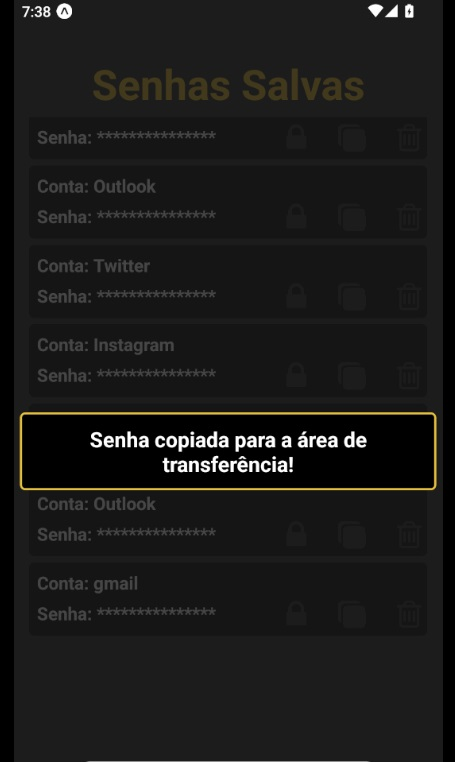
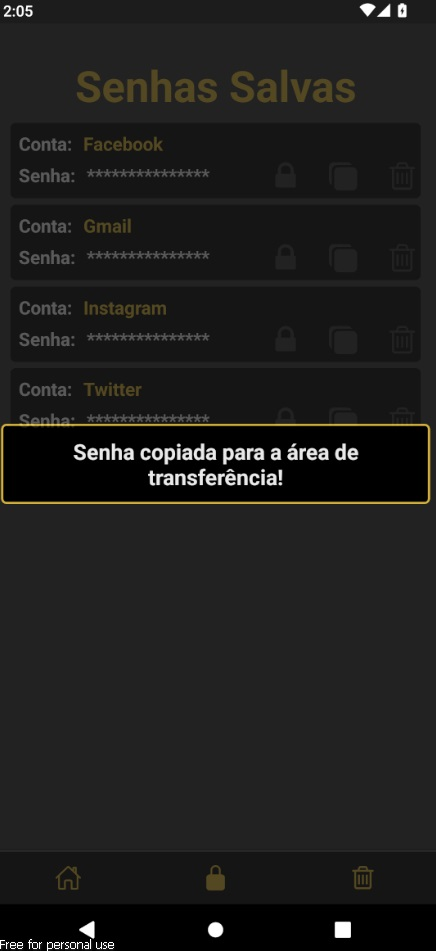
layout: animando as screens, editando tabBar

diff --git a/src/routes.tsx b/src/routes.tsx
@@ -4,15 +4,16 @@ import { Passwords } from './screens/Passwords/Passwords';
 import { Lixeira } from "./screens/Lixeira/Lixeira";
 import * as Animatable from 'react-native-animatable';
 import { FontAwesome, Ionicons } from '@expo/vector-icons'
-import { StatusBar } from "expo-status-bar";
 import { View, Text, TouchableOpacity, StyleSheet } from "react-native";
 import { useState } from "react";
 import logo from '../assets/23.png'
+
 
 const { Navigator, Screen } = createBottomTabNavigator();
 
 export function Routes() {
     const [preHome, setPreHome] = useState(true);
+
 
     function PreHome() {
         return (
@@ -57,17 +58,15 @@ export function Routes() {
     function Aplication() {
         return (
             <View
-                style={{ flex: 1, backgroundColor: "#333333" }}
+                style={{ flex: 1, }}
             >
                 < Navigator
                     screenOptions={{
                         tabBarStyle: {
                             backgroundColor: "#000",
-                            width: '90%',
-                            borderRadius: 7,
+                            width: '100%',
                             alignSelf: "center",
-                            bottom: 15,
-                            borderTopWidth: 0
+
                         }
                     }}>
 
@@ -84,6 +83,7 @@ export function Routes() {
                                 return <Ionicons size={25} color={"#e5bf3c"} name="home-outline" />
                             }
                         }}
+
                     />
                     <Screen
                         name="senhas"
@@ -123,7 +123,6 @@ export function Routes() {
             style={{ flex: 1 }}
         >
             {preHome ? <PreHome /> : <Aplication />}
-
         </View>
     )
 
@@ -141,11 +140,12 @@ const styles = StyleSheet.create({
         textAlign: 'center',
         fontWeight: 'bold',
         fontSize: 30,
+        paddingTop: 20,
     },
     desc: {
         color: "#fff",
         fontSize: 15,
-        padding: 10,
+        padding: 20,
         textAlign: 'center',
         fontStyle: 'italic'
     },
@@ -154,14 +154,14 @@ const styles = StyleSheet.create({
         justifyContent: "space-around",
         backgroundColor: "#000",
         width: "100%",
-        borderTopLeftRadius: 50,
-        borderTopRightRadius: 50,
+        borderTopLeftRadius: 30,
+        borderTopRightRadius: 30,
     },
     button: {
         backgroundColor: "#333",
         width: '70%',
         alignSelf: "center",
-        borderRadius: 20
+        borderRadius: 10
     },
     buttonText: {
         color: "#e5bf3c",

diff --git a/src/screens/Passwords/Passwords.tsx b/src/screens/Passwords/Passwords.tsx
@@ -1,4 +1,4 @@
-import React, { useState } from 'react';
+import React, { useEffect, useState } from 'react';
 import { View, Text, FlatList, TouchableOpacity, Alert, Modal } from 'react-native';
 import { useSenhasContext } from '../../hooks/useSenhasContext';
 import { StatusBar } from 'expo-status-bar';
@@ -8,6 +8,8 @@ import { ModalSenhaCopiada } from '../../components/Modal/ModalSenhaCopiada';
 import { useLixeiraContext } from '../../hooks/useLixeiraContext';
 import { styles } from './PasswordsStyles';
 import { MotiView } from 'moti';
+import { useFocusContext } from '../../hooks/useFocusContext';
+import { useFocusEffect } from '@react-navigation/native';
 
 interface Senha {
     conta: string;
@@ -18,12 +20,22 @@ export function Passwords() {
 
     const { senhas, setSenhas } = useSenhasContext();
     const { lixeira, setLixeira } = useLixeiraContext();
+    const { isPasswordsFocused, setFocus, } = useFocusContext();
     const [showPass, setShowPass] = useState<number | null>(null);
     const [senhaCopiadaVisible, setSenhaCopiadaVisible] = useState(false);
 
     const senhasOrdenadas = [...senhas].sort((a, b) => a.conta.localeCompare(b.conta));
 
     var column = 1;
+
+    useFocusEffect(
+        React.useCallback(() => {
+            setFocus('senhas');
+        }, [setFocus])
+    );
+
+    console.log("Senhas: " + isPasswordsFocused);
+    console.log("*************");
 
     const handleRemoverSenha = (senhaParaRemover: Senha) => {
         const novaListaSenhas = senhas.filter(senha => senha !== senhaParaRemover);
@@ -112,7 +124,11 @@ export function Passwords() {
 
 
     return (
-        <View style={styles.container}>
+        <MotiView style={styles.container}
+            from={{ opacity: 0 }}
+            animate={{ opacity: isPasswordsFocused ? 1 : 0, translateY: 0 }}
+            transition={{ duration: 1000 }}
+        >
             <StatusBar
                 backgroundColor='#333'
                 style='light'
@@ -139,6 +155,6 @@ export function Passwords() {
                     handleClose={() => setSenhaCopiadaVisible(false)}
                 />
             </Modal>
-        </View>
+        </MotiView>
     );
 } 

diff --git a/src/screens/Lixeira/Lixeira.tsx b/src/screens/Lixeira/Lixeira.tsx
@@ -1,11 +1,14 @@
-import React, { useState } from 'react';
+import React, { useEffect, useState } from 'react';
 import { View, Text, FlatList, TouchableOpacity, Alert } from 'react-native';
 import { useSenhasContext } from '../../hooks/useSenhasContext';
 import { useLixeiraContext } from '../../hooks/useLixeiraContext';
 import { StatusBar } from 'expo-status-bar';
 import { FontAwesome, MaterialCommunityIcons } from '@expo/vector-icons'
+import { useFocusContext } from '../../hooks/useFocusContext';
 
 import { styles } from './LixeiraStyles';
+import { useFocusEffect } from '@react-navigation/native';
+import { MotiView } from 'moti';
 
 interface Senha {
     conta: string;
@@ -16,10 +19,22 @@ export function Lixeira() {
 
     const { senhas, setSenhas } = useSenhasContext();
     const { lixeira, setLixeira } = useLixeiraContext();
+
+    const { isTrashFocused, setFocus, } = useFocusContext();
+
     const [showPass, setShowPass] = useState<number | null>(null);
     var column = 1;
 
     const senhasOrdenadas = [...lixeira].sort((a, b) => a.conta.localeCompare(b.conta));
+
+    useFocusEffect(
+        React.useCallback(() => {
+            setFocus('lixeira');
+        }, [setFocus])
+    );
+
+    console.log("Lixeira: " + isTrashFocused);
+    console.log("*************");
 
     const handleRemoverSenha = (senhaParaRemover: Senha) => {
         const novaListaLixeira = lixeira.filter(senha => senha !== senhaParaRemover);
@@ -125,7 +140,11 @@ export function Lixeira() {
     );
 
     return (
-        <View style={styles.container}>
+        <MotiView style={styles.container}
+            from={{ opacity: isTrashFocused ? 0 : 1, translateY: 0 }}
+            animate={{ opacity: isTrashFocused ? 1 : 0, translateY: 0 }}
+            transition={{ duration: 1000 }}
+        >
             <StatusBar
                 style='light'
                 translucent={true}
@@ -143,6 +162,6 @@ export function Lixeira() {
             ) : (
                 <Text style={styles.textoVazio}>Lixeira está vazia</Text>
             )}
-        </View>
+        </MotiView>
     );
 } 

diff --git a/src/screens/Home/Home.tsx b/src/screens/Home/Home.tsx
@@ -10,9 +10,12 @@ import Slider from '@react-native-community/slider';
 import { Feather } from '@expo/vector-icons';
 import * as Animatable from 'react-native-animatable';
 import { MotiView } from 'moti';
+import { useFocusContext } from '../../hooks/useFocusContext';
+import { useFocusEffect } from '@react-navigation/native';
 
 export function Home() {
     const { pass, setPass } = usePassContext();
+    const { isHomeFocused, setFocus, } = useFocusContext();
     const [size, setSize] = useState(5);
     const [showPass, setShowPass] = useState(false);
     const [modalAddVisible, setModalAddVisible] = useState(false);
@@ -36,6 +39,14 @@ export function Home() {
     const numberSet = '01234567890123456789';
     const especialSet = '!@#$%&?!@#$%&?';
 
+    useFocusEffect(
+        React.useCallback(() => {
+            setFocus('home');
+        }, [setFocus])
+    );
+
+    console.log("Home:" + isHomeFocused);
+    console.log("*************");
 
     useEffect(() => {
         let timeoutChar: any;
@@ -99,12 +110,15 @@ export function Home() {
         pass.password !== '' ? setModalAddVisible(true) : setGerarSenha(true);
     }
     return (
+
+
         <MotiView
             style={styles.appContainer}
-            from={{ opacity: 0, translateX: -300 }}
-            animate={{ opacity: 1, translateX: 0 }}
-            transition={{ type: 'timing', duration: 700 }}
+            from={{ opacity: 0, }}
+            animate={{ opacity: isHomeFocused ? 1 : 0, translateY: 0 }}
+            transition={{ duration: 1000 }}
         >
+
             <View style={styles.logoContainer}>
                 <Logo />
             </View>
@@ -236,5 +250,6 @@ export function Home() {
                 </Modal>
             </View>
         </MotiView >
+
     );
 }

diff --git a/src/hooks/useFocusContext.tsx b/src/hooks/useFocusContext.tsx
@@ -1,0 +1,43 @@
+import React, { createContext, useContext, useState, ReactNode } from 'react';
+
+interface FocusContextProps {
+    isHomeFocused: boolean;
+    isPasswordsFocused: boolean;
+    isTrashFocused: boolean;
+    setFocus: (focus: 'home' | 'senhas' | 'lixeira') => void;
+}
+
+
+const FocusContext = createContext<FocusContextProps | undefined>(undefined);
+
+
+interface FocusProviderProps {
+    children: ReactNode;
+}
+
+
+export const useFocusContext = () => {
+    const context = useContext(FocusContext);
+    if (!context) {
+        throw new Error('useFocusContext deve ser usado dentro de FocusProvider');
+    }
+    return context;
+};
+
+export const FocusProvider: React.FC<FocusProviderProps> = ({ children }) => {
+    const [isHomeFocused, setHomeFocus] = useState(true);
+    const [isPasswordsFocused, setPasswordsFocus] = useState(false);
+    const [isTrashFocused, setTrashFocus] = useState(false);
+
+    const setFocus = (focus: 'home' | 'senhas' | 'lixeira') => {
+        setHomeFocus(focus === 'home');
+        setPasswordsFocus(focus === 'senhas');
+        setTrashFocus(focus === 'lixeira');
+    };
+
+    return (
+        <FocusContext.Provider value={{ isHomeFocused, isPasswordsFocused, isTrashFocused, setFocus }}>
+            {children}
+        </FocusContext.Provider>
+    );
+};

diff --git a/App.tsx b/App.tsx
@@ -3,6 +3,7 @@ import { Routes } from './src/routes';
 import { SenhasProvider } from './src/hooks/useSenhasContext';
 import { PassProvider } from './src/hooks/usePassContext';
 import { LixeiraProvider } from './src/hooks/useLixeiraContext';
+import { FocusProvider } from './src/hooks/useFocusContext';
 
 
 const MyTheme = {
@@ -18,7 +19,9 @@ export default function App() {
       <SenhasProvider>
         <PassProvider>
           <LixeiraProvider>
-            <Routes />
+            <FocusProvider>
+              <Routes />
+            </FocusProvider>
           </LixeiraProvider>
         </PassProvider>
       </SenhasProvider>

diff --git a/src/screens/Home/HomeStyle.tsx b/src/screens/Home/HomeStyle.tsx
@@ -7,6 +7,7 @@ export const styles = StyleSheet.create({
         alignItems: "center",
         justifyContent: "center",
     },
+
     logoContainer: {
         flexDirection: "column",
         borderColor: "#e5bf3c",
@@ -47,7 +48,7 @@ export const styles = StyleSheet.create({
     },
     buttonContainer: {
         width: '100%',
-        top: 10
+
     },
     button: {
         alignItems: "center",
